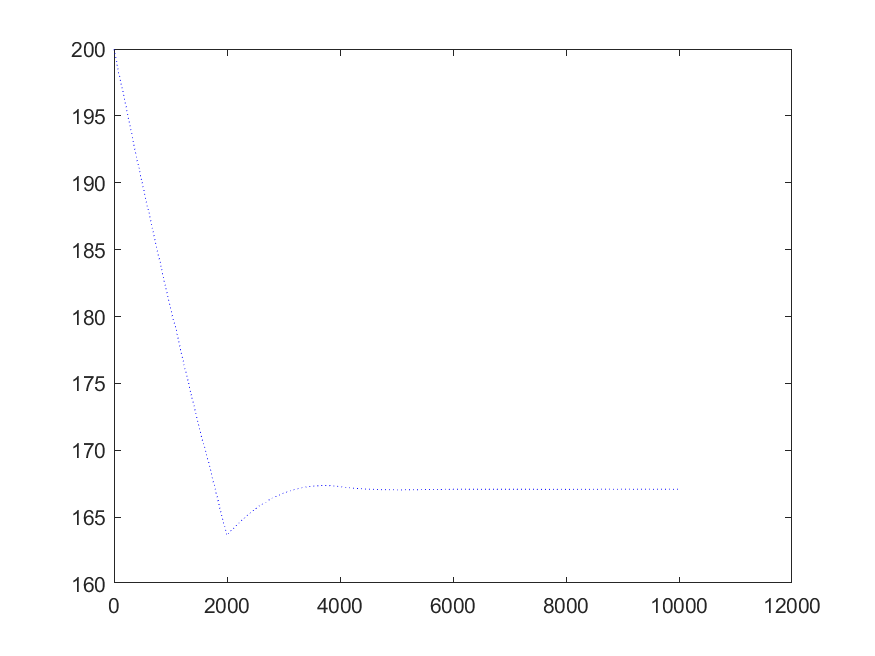
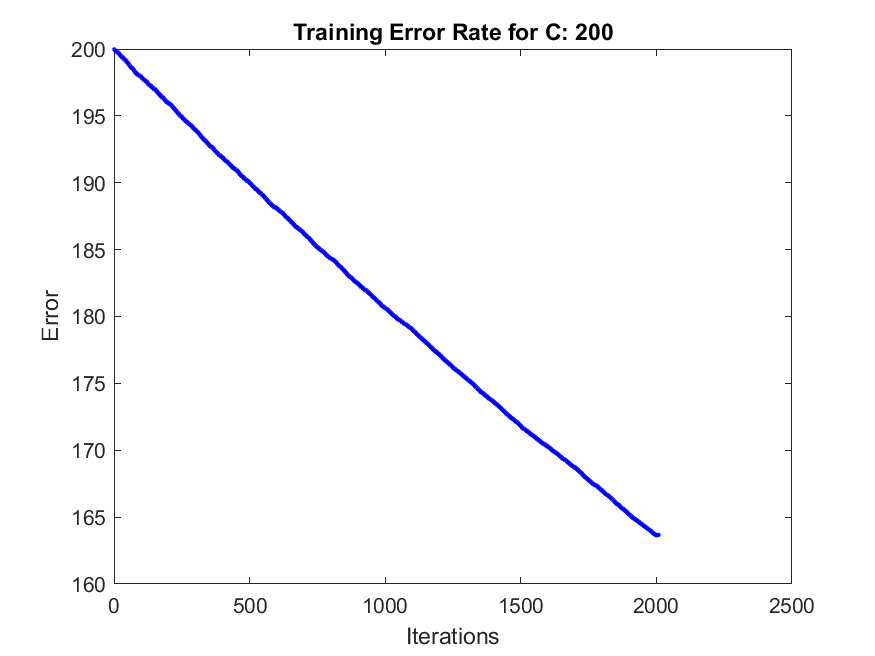
corrected

diff --git a/Assignment5/CoordinateDescentSVM.m b/Assignment5/CoordinateDescentSVM.m
@@ -14,13 +14,15 @@ function [alpha, w, TrainErrs, TestErrs] = CoordinateDescentSVM(Xtrain, ytrain, 
     n = size(Xtrain, 1);
     alpha = sparse(n, 1);
     w = Xtrain'*(alpha.*ytrain); % initialize the primal variable
+    dualObj=0;
     
     TrainErrs = []; TestErrs = [];
     
-    counter = 0; iter = 0; EPS = 1e-3;
+    counter = 0; iter = 0; EPS = 1e-3; maxIter = 10000;
     CONVERGENCE = false; 
     while ~CONVERGENCE   
         
+        prevObj=dualObj;
         r = counter+1; % choose the coordinate r
         
         % Solve the subproblem for coordinate r without any constraints:        
@@ -44,29 +46,24 @@ function [alpha, w, TrainErrs, TestErrs] = CoordinateDescentSVM(Xtrain, ytrain, 
         
         % Compute the primal solution w from alpha:
         w = Xtrain'*(alpha.*ytrain);
-%         w_test = Xtest'*(alpha.*ytest);
         
         % Compute the training and test errors using the current iterate alpha:
         TrainErrs = [TrainErrs; C/n*sum(max(0, 1 - ytrain.*(Xtrain*w)))];
         TestErrs = [TestErrs; C/n*sum(max(0, 1 - ytest.*(Xtest*w)))];
         
         % If the KKT conditions are satisfied upto tolerance EPS by the current iterate alpha then set CONVERGENCE = true;
-        
-%          if ((alpha(r) == 0) && (ytrain(r)*(Xtrain(r,:)*w) - 1 >= EPS)) ||...
-%                 ((alpha(r) > 0) && (alpha(r) < C/n) && (ytrain(r)*(Xtrain(r,:)*w) - 1 == EPS)) ||...
-%                 ((alpha(r) == C/n) && (ytrain(r)*(Xtrain(r,:)*w) - 1 <= EPS))
-            
+
         if ((~isempty(find(alpha == 0)) && all(ytrain(alpha == 0) .* (Xtrain(alpha == 0,:) * w)...
-                - 1 >= EPS)) ||... 
+                - 1 >= EPS)) &&... 
             (~isempty(find((alpha > 0) & (alpha < C/n))) && all(ytrain((alpha > 0) & (alpha < C/n)) .* (Xtrain((alpha > 0) & (alpha < C/n),:) * w)...
-                - 1 == EPS)) ||... 
+                - 1 == EPS)) &&... 
             (~isempty(find(alpha == C/n)) && all(ytrain(alpha == C/n) .* (Xtrain(alpha == C/n,:) * w)...
                 - 1 <= EPS)))
             CONVERGENCE = 1;
         end
         counter = rem(counter+1, n);        
         
-        if iter > 10000
+        if (iter > maxIter) || (abs(dualObj - prevObj) < EPS)
             break;
         end
     end  

diff --git a/Regression/main_Lasso.m b/Regression/main_Lasso.m
@@ -13,17 +13,17 @@ save LossSecondEx trainloss;
 %% Prediction2
 clear;
 load('Part2-TrainingData.mat');
-% Allocate validation data
-Xvalidation = Xtrain(end-49:end,:);
-Yvalidation = Ytrain(end-49:end,:);
+% Allocate validation data (20% train data)
+valid_size = round(0.2*size(Xtrain,1));
+Xvalidation = Xtrain(end-valid_size+1:end,:);
+Yvalidation = Ytrain(end-valid_size+1:end,:);
 
-Xtrain = Xtrain(1:end-50,:);
-Ytrain = Ytrain(1:end-50,:);
+Xtrain = Xtrain(1:end-valid_size,:);
+Ytrain = Ytrain(1:end-valid_size,:);
 
 % Normalize training data
 Xtrain = (Xtrain - mean(Xtrain,1)) ./ std(Xtrain,1);
-Ytrain = (Ytrain - mean(Ytrain,1)) ./ std(Ytrain,1);
-
+% Ytrain = (Ytrain - mean(Ytrain,1)) ./ std(Ytrain,1);
 
 [N, D] = size(Xtrain);
 % Training with Lasso Regression with polynomial basis

diff --git a/Assignment5/main_svm.m b/Assignment5/main_svm.m
@@ -4,8 +4,10 @@ C = [10,100,200,500];
 
 for c = C
     [alpha, w, TrainErrs, TestErrs] = CoordinateDescentSVM(Xtrain, ytrain, c, Xtest, ytest);
-    plot(1:numel(TrainErrs),TrainErrs,'b:');
+    plot(1:numel(TrainErrs),TrainErrs,'b.-');
+    title(['Training Error Rate for C: ', num2str(c)]), xlabel('Iterations'), ylabel('Error');
     saveas(gcf, ['DIGITS01TrainErrs_' num2str(c)], 'png');
     plot(1:numel(TrainErrs),TestErrs,'g.-');
+    title(['Test Error Rate for C: ', num2str(c)]), xlabel('Iterations'), ylabel('Error');
     saveas(gcf, ['DIGITS01TestErrs_' num2str(c)], 'png');
 end

diff --git a/Regression/RidgeRegression.m b/Regression/RidgeRegression.m
@@ -11,7 +11,7 @@ function w = RidgeRegression(DesignMatrix,Y, Lambda)
 % cvx_end
 
 % Closed form solution: (p'p)^-1 p' Y
-w = (DesignMatrix'*DesignMatrix + Lambda * ones(dim)) \ (DesignMatrix' * Y);
+w = (DesignMatrix'*DesignMatrix + Lambda * eye(dim)) \ (DesignMatrix' * Y);
 
 end
 
